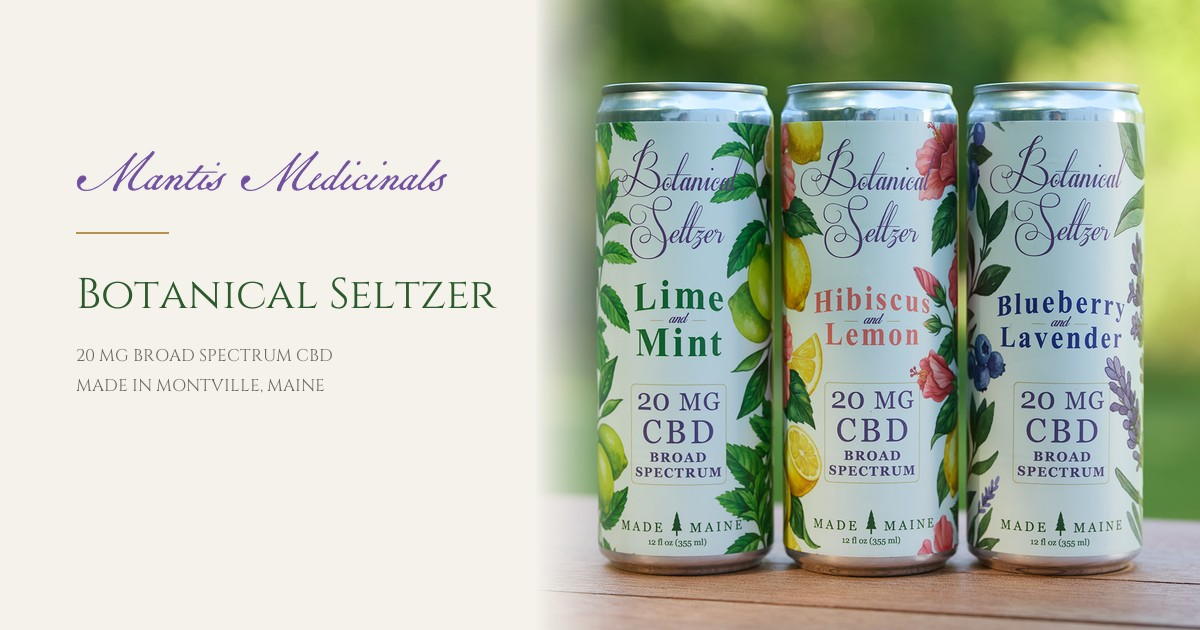
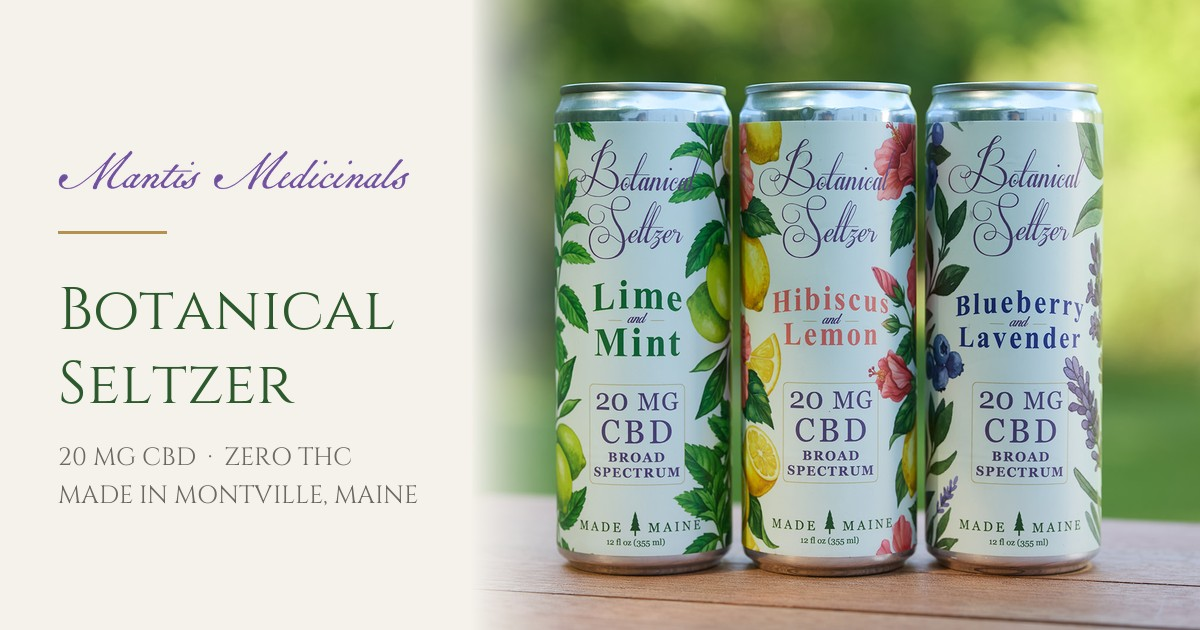
Rework the Mantis OG card so it reads at feed size
The first card was designed at 1200px and judged at 1200px. Slack renders
it near 360px, where the 17px spec lines disappeared and the whole thing
read as empty. Type is roughly doubled and the split rebalanced so all
three cans sit inside the frame with air around them.

Titles no longer repeat the brand, since Slack prints og:site_name
directly above og:title.

Claude-Session: https://claude.ai/code/session_01QXN7z9VkeSzgWzNnnzLFVb

diff --git a/mantis/site/index.html b/mantis/site/index.html
@@ -15,7 +15,7 @@
 <link rel="apple-touch-icon" href="assets/social/favicon-180.png">
 <meta property="og:type" content="website">
 <meta property="og:site_name" content="Mantis Medicinals">
-<meta property="og:title" content="Mantis Medicinals · Botanical CBD Seltzer, Made in Maine">
+<meta property="og:title" content="Botanical CBD Seltzer, Made in Maine">
 <meta property="og:description" content="Sparkling botanical infusion with 20 mg broad spectrum CBD and zero THC. Made in small batches in Montville, Maine.">
 <meta property="og:url" content="https://nfa.studio/mantis/site/">
 <meta property="og:image" content="https://nfa.studio/mantis/site/assets/social/og-card.jpg">
@@ -23,7 +23,7 @@
 <meta property="og:image:height" content="630">
 <meta property="og:image:alt" content="Three cans of Mantis Medicinals Botanical Seltzer on a wooden table">
 <meta name="twitter:card" content="summary_large_image">
-<meta name="twitter:title" content="Mantis Medicinals · Botanical CBD Seltzer, Made in Maine">
+<meta name="twitter:title" content="Botanical CBD Seltzer, Made in Maine">
 <meta name="twitter:description" content="Sparkling botanical infusion with 20 mg broad spectrum CBD and zero THC. Made in small batches in Montville, Maine.">
 <meta name="twitter:image" content="https://nfa.studio/mantis/site/assets/social/og-card.jpg">
 </head>

diff --git a/mantis/site/seltzer.html b/mantis/site/seltzer.html
@@ -16,7 +16,7 @@
 <link rel="apple-touch-icon" href="assets/social/favicon-180.png">
 <meta property="og:type" content="website">
 <meta property="og:site_name" content="Mantis Medicinals">
-<meta property="og:title" content="Botanical Seltzer · Mantis Medicinals">
+<meta property="og:title" content="Botanical Seltzer">
 <meta property="og:description" content="Three flavors, 20 mg broad spectrum CBD, zero THC. By the can, the four pack or the twelve.">
 <meta property="og:url" content="https://nfa.studio/mantis/site/seltzer.html">
 <meta property="og:image" content="https://nfa.studio/mantis/site/assets/social/og-card.jpg">
@@ -24,7 +24,7 @@
 <meta property="og:image:height" content="630">
 <meta property="og:image:alt" content="Three cans of Mantis Medicinals Botanical Seltzer on a wooden table">
 <meta name="twitter:card" content="summary_large_image">
-<meta name="twitter:title" content="Botanical Seltzer · Mantis Medicinals">
+<meta name="twitter:title" content="Botanical Seltzer">
 <meta name="twitter:description" content="Three flavors, 20 mg broad spectrum CBD, zero THC. By the can, the four pack or the twelve.">
 <meta name="twitter:image" content="https://nfa.studio/mantis/site/assets/social/og-card.jpg">
 </head>

diff --git a/mantis/site/shop.html b/mantis/site/shop.html
@@ -15,7 +15,7 @@
 <link rel="apple-touch-icon" href="assets/social/favicon-180.png">
 <meta property="og:type" content="website">
 <meta property="og:site_name" content="Mantis Medicinals">
-<meta property="og:title" content="Shop · Mantis Medicinals">
+<meta property="og:title" content="The Shop">
 <meta property="og:description" content="Seltzer, salves, oils, teas and soaks. Made with certified organic hemp grown in Maine.">
 <meta property="og:url" content="https://nfa.studio/mantis/site/shop.html">
 <meta property="og:image" content="https://nfa.studio/mantis/site/assets/social/og-card.jpg">
@@ -23,7 +23,7 @@
 <meta property="og:image:height" content="630">
 <meta property="og:image:alt" content="Three cans of Mantis Medicinals Botanical Seltzer on a wooden table">
 <meta name="twitter:card" content="summary_large_image">
-<meta name="twitter:title" content="Shop · Mantis Medicinals">
+<meta name="twitter:title" content="The Shop">
 <meta name="twitter:description" content="Seltzer, salves, oils, teas and soaks. Made with certified organic hemp grown in Maine.">
 <meta name="twitter:image" content="https://nfa.studio/mantis/site/assets/social/og-card.jpg">
 </head>

diff --git a/mantis/site/faq/index.html b/mantis/site/faq/index.html
@@ -14,7 +14,7 @@
 <link rel="apple-touch-icon" href="../assets/social/favicon-180.png">
 <meta property="og:type" content="website">
 <meta property="og:site_name" content="Mantis Medicinals">
-<meta property="og:title" content="Questions · Mantis Medicinals">
+<meta property="og:title" content="Questions">
 <meta property="og:description" content="What is in the can, how the CBD is grown and tested, and where to find us.">
 <meta property="og:url" content="https://nfa.studio/mantis/site/faq/">
 <meta property="og:image" content="https://nfa.studio/mantis/site/assets/social/og-card.jpg">
@@ -22,7 +22,7 @@
 <meta property="og:image:height" content="630">
 <meta property="og:image:alt" content="Three cans of Mantis Medicinals Botanical Seltzer on a wooden table">
 <meta name="twitter:card" content="summary_large_image">
-<meta name="twitter:title" content="Questions · Mantis Medicinals">
+<meta name="twitter:title" content="Questions">
 <meta name="twitter:description" content="What is in the can, how the CBD is grown and tested, and where to find us.">
 <meta name="twitter:image" content="https://nfa.studio/mantis/site/assets/social/og-card.jpg">
 </head>

diff --git a/mantis/site/lab-results/index.html b/mantis/site/lab-results/index.html
@@ -14,7 +14,7 @@
 <link rel="apple-touch-icon" href="../assets/social/favicon-180.png">
 <meta property="og:type" content="website">
 <meta property="og:site_name" content="Mantis Medicinals">
-<meta property="og:title" content="Lab Results · Mantis Medicinals">
+<meta property="og:title" content="Lab Results">
 <meta property="og:description" content="Every batch tested by an independent lab before it ships.">
 <meta property="og:url" content="https://nfa.studio/mantis/site/lab-results/">
 <meta property="og:image" content="https://nfa.studio/mantis/site/assets/social/og-card.jpg">
@@ -22,7 +22,7 @@
 <meta property="og:image:height" content="630">
 <meta property="og:image:alt" content="Three cans of Mantis Medicinals Botanical Seltzer on a wooden table">
 <meta name="twitter:card" content="summary_large_image">
-<meta name="twitter:title" content="Lab Results · Mantis Medicinals">
+<meta name="twitter:title" content="Lab Results">
 <meta name="twitter:description" content="Every batch tested by an independent lab before it ships.">
 <meta name="twitter:image" content="https://nfa.studio/mantis/site/assets/social/og-card.jpg">
 </head>
